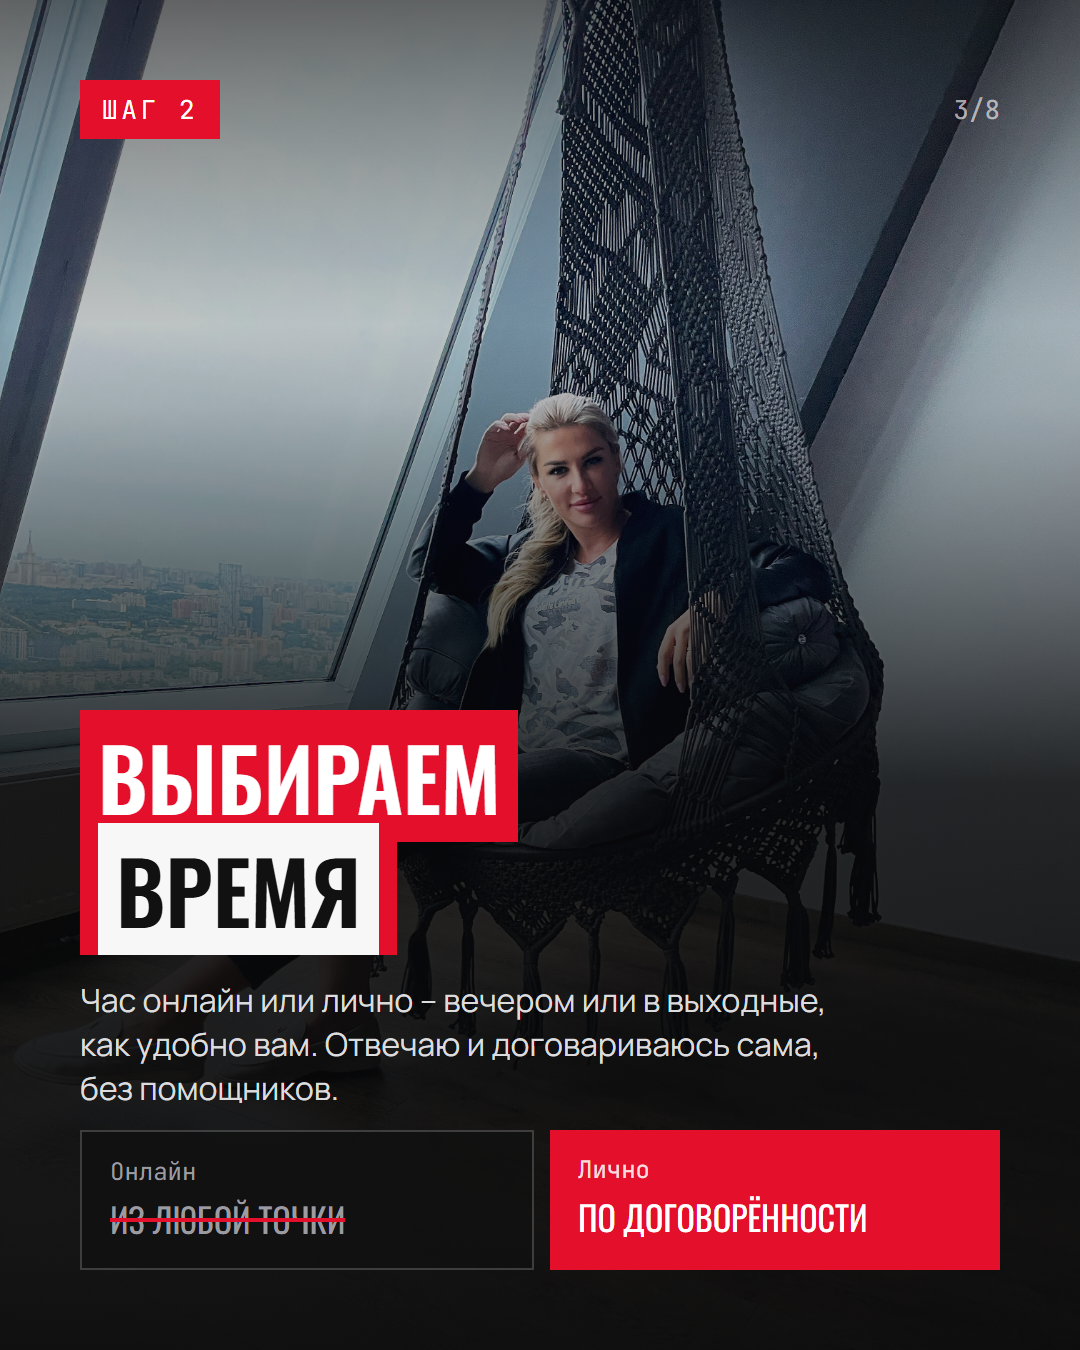
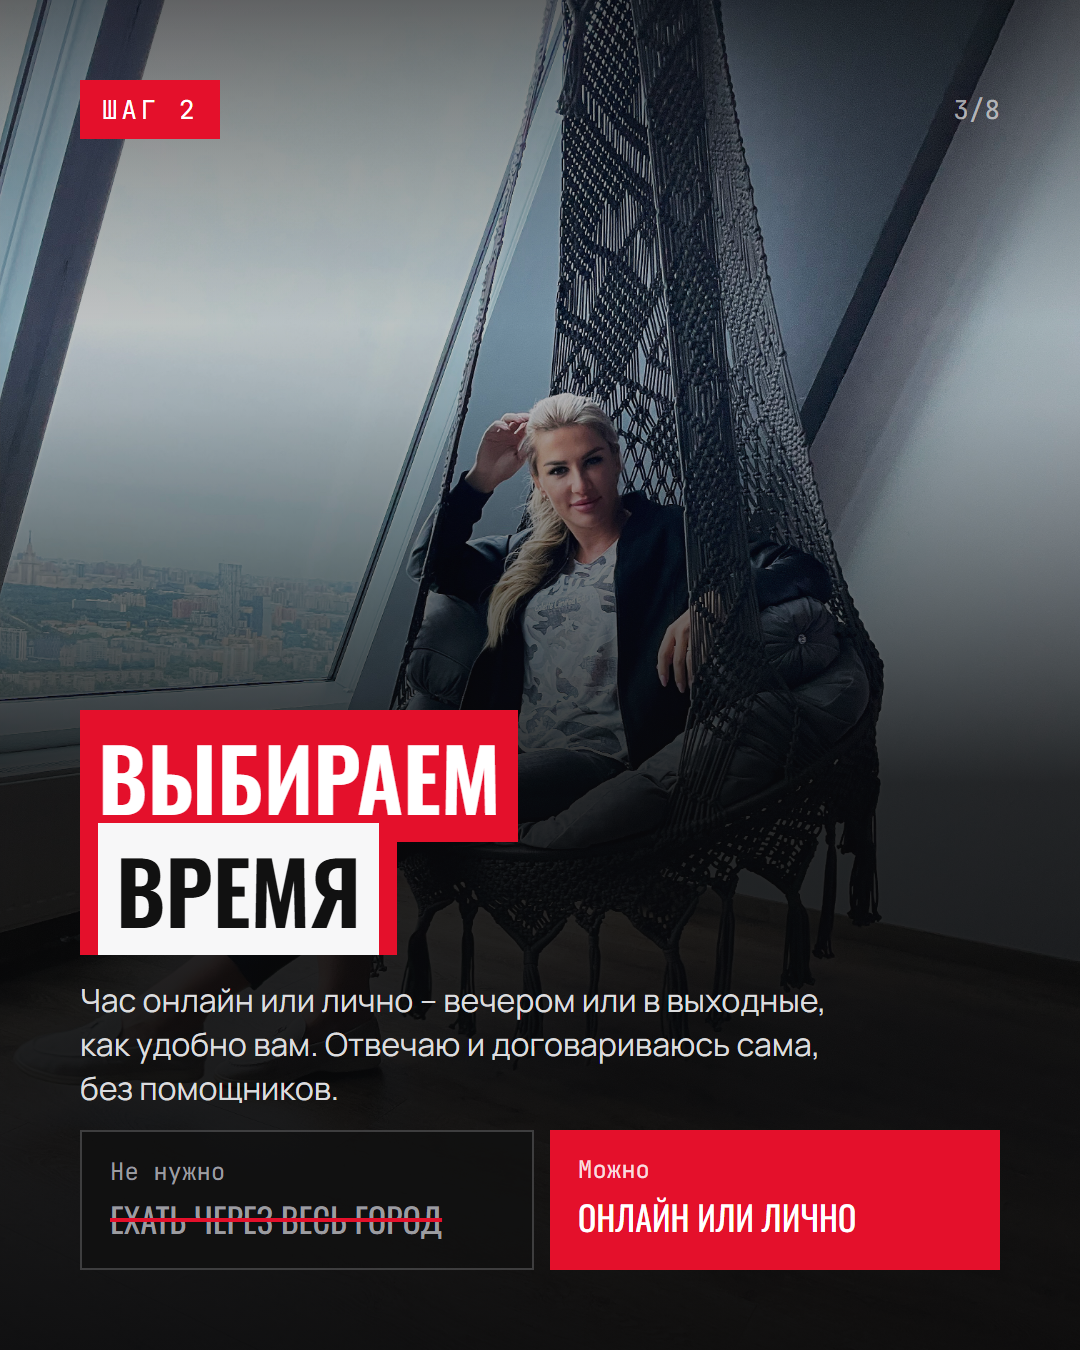
Карусели недели: зачёркнуто только «было / неправильно» (6 слайдов)

Changed region(s): [[0.0917, 0.84, 0.4278, 0.9333], [0.5194, 0.84, 0.7944, 0.9333]]

diff --git a/docs/karuseli_nedeli/make_specs.py b/docs/karuseli_nedeli/make_specs.py
@@ -30,7 +30,7 @@ K = {}
 K['k0_razbor'] = [
     cover('photo_2026-10-20_13-09-49.jpg', 'Личная консультация', 'Как проходит\n*разбор*', '1 час, 3 шага и ясный следующий шаг – без готовых рецептов'),
     P('IMG_3936.JPG', 'Шаг 1', 'Пишете мне\n*«РАЗБОР»*', 'В личные сообщения. Коротко: что происходит и что болит. Хватит пары фраз – дальше разберёмся вместе.', ('Не нужно', 'готовить речь'), ('Достаточно', 'пары фраз')),
-    P('IMG_7136.JPG', 'Шаг 2', 'Выбираем\n*время*', 'Час онлайн или лично – вечером или в выходные, как удобно вам. Отвечаю и договариваюсь сама, без помощников.', ('Онлайн', 'из любой точки'), ('Лично', 'по договорённости')),
+    P('IMG_7136.JPG', 'Шаг 2', 'Выбираем\n*время*', 'Час онлайн или лично – вечером или в выходные, как удобно вам. Отвечаю и договариваюсь сама, без помощников.', ('Не нужно', 'ехать через весь город'), ('Можно', 'онлайн или лично')),
     P('IMG_9365.HEIC', 'Шаг 3', 'Час – честно\n*и по делу*', 'Без готовых рецептов и без «просто полюбите себя». Смотрим на вашу ситуацию со стороны – такой, какая она есть.', ('Не будет', 'шаблонов'), ('Будет', 'правда'), '50% 25%'),
     {'role': 'list', 'kicker': 'С чем можно прийти', 'title': 'Ваш запрос', 'items': ['Уйти или сохранить отношения', 'Сильная, но одна', 'Потолок в найме', 'Найм или своё дело', 'Всё есть, а кажется мало'], 'note': 'Не знаете, как сформулировать? Это тоже запрос'},
     P('IMG_9288.HEIC', 'Результат', 'Уходите\n*с ясной картиной*', 'Понимаете, что на самом деле происходит, и знаете свой следующий шаг. Не «когда-нибудь», а конкретный.', ('До', 'хожу по кругу'), ('После', 'вижу свой шаг'), '50% 30%'),
@@ -44,17 +44,17 @@ K['k1_gasite'] = [
     P('IMG_7251.JPG', 'Признак 3', 'Оправдываетесь\n*за успех*', '«Мне просто повезло», «да это ерунда». Вам неловко быть сильной рядом с ним.', ('Говорите', 'повезло'), ('Правда', 'я заработала')),
     P('IMG_9699.JPG', 'Признак 4', '«Девочка-девочка»\n*по курсам*', 'Учитесь быть мягче, слабее, удобнее – не потому что хочется, а чтобы он не ушёл.', ('Цель', 'стать удобной'), ('Итог', 'потерять себя'), '50% 15%', 0.85),
     P('IMG_7136.JPG', 'Признак 5', 'Проседают здоровье\n*и самооценка*', 'Постоянное напряжение не проходит бесследно. Усталость, бессонница и мысль «со мной что-то не так».', ('Снаружи', 'всё хорошо'), ('Внутри', 'нет сил'), '50% 20%', 0.85),
-    P('IMG_2819.JPG', 'Признак 6', 'Он ревнует\n*к вашему статусу*', 'К деньгам, к людям вокруг, к каждому рабочему звонку. И вы начинаете извиняться за свою жизнь.', ('Он', 'ревнует'), ('Вы', 'извиняетесь'), '45% 20%'),
+    P('IMG_2819.JPG', 'Признак 6', 'Он ревнует\n*к вашему статусу*', 'К деньгам, к людям вокруг, к каждому рабочему звонку. И вы начинаете извиняться за свою жизнь.', ('Он', 'ты много работаешь'), ('На деле', 'ревность к статусу'), '45% 20%'),
     P('photo_2026-10-20_13-09-53.jpg', 'Главное', 'Гасишь себя –\n*теряешь себя целиком*', 'Мужчина, который рядом с вами растёт, не попросит вас стать меньше. Сила и женственность не воюют – они договариваются.', ('Шаблон', 'будь удобной'), ('Правда', 'будь собой'), '50% 25%', 0.85),
     cta('Узнали себя?', 'Напишите – разберём вашу ситуацию на личной консультации. Отвечу сама и назову цену.'),
 ]
 K['k2_ujti'] = [
     cover('IMG_9732.JPG', 'Отношения без шаблонов', 'Уйти\n*или сохранить?*', '5 вопросов, которые стоит задать себе, прежде чем рубить', '50% 20%'),
-    P('IMG_6332.JPG', 'Вопрос 1', 'Это кризис\n*или тупик?*', 'Кризис в отношениях был, есть и будет. Кризис проходят, если этого хотят двое. Тупик – когда хочет только один.', ('Кризис', 'можно пройти'), ('Тупик', 'некуда идти')),
+    P('IMG_6332.JPG', 'Вопрос 1', 'Это кризис\n*или тупик?*', 'Кризис в отношениях был, есть и будет. Кризис проходят, если этого хотят двое. Тупик – когда хочет только один.', ('Думаете', 'это конец'), ('Бывает', 'просто кризис')),
     P('IMG_2759.JPG', 'Вопрос 2', 'Что я\n*потеряю?*', 'Не только человека. Дом, общих друзей, привычную жизнь, иногда – деньги. Взвесьте честно, а не на эмоциях.', ('На эмоциях', 'уйду и всё'), ('Честно', 'считаю цену')),
     P('IMG_4512.JPG', 'Вопрос 3', 'Чего мне\n*на самом деле мало?*', 'Иногда «мне мало» – это про отношения. А иногда – про себя: про дело, про рост, про смысл.', ('Кажется', 'мало его'), ('Бывает', 'мало себя'), '50% 15%', 0.85),
-    P('IMG_8161.JPG', 'Вопрос 4', 'Есть ли\n*насилие?*', 'Если есть насилие или угрозы – не взвешивайте. Уходите сразу и просите помощи у близких и специалистов.', ('Здесь', 'без вопросов'), ('Только', 'уходить')),
-    P('IMG_7680.JPG', 'Вопрос 5', 'Есть ли у меня\n*почва под ногами?*', 'Свои деньги, профессия, жильё, близкие люди. Если почвы нет – сначала план отхода, потом решение.', ('Нет почвы', 'сначала план'), ('Есть почва', 'можно решать'), '50% 20%', 0.85),
+    P('IMG_8161.JPG', 'Вопрос 4', 'Есть ли\n*насилие?*', 'Если есть насилие или угрозы – не взвешивайте. Уходите сразу и просите помощи у близких и специалистов.', ('Не надо', 'терпеть и взвешивать'), ('Нужно', 'уходить сразу')),
+    P('IMG_7680.JPG', 'Вопрос 5', 'Есть ли у меня\n*почва под ногами?*', 'Свои деньги, профессия, жильё, близкие люди. Если почвы нет – сначала план отхода, потом решение.', ('Ошибка', 'уйти в никуда'), ('Верно', 'сначала план'), '50% 20%', 0.85),
     P('photo_2026-10-20_13-09-59.jpg', 'Главное', 'Разрушить успеешь.\n*Построить заново – нет*', 'Решение в панике почти всегда хуже решения с холодной головой. Сначала разберитесь – потом решайте.', ('В панике', 'рубить'), ('С ясной головой', 'решать'), '50% 18%', 0.8),
     cta('Не знаете, что выбрать?', 'Напишите – за час разберём вашу ситуацию без паники и готовых рецептов. Отвечу сама и назову цену.'),
 ]
@@ -63,7 +63,7 @@ K['k3_pravdy'] = [
     P('IMG_4086.PNG', 'Правда 1', 'Зачем ты\n*на этом месте?*', 'Однажды знакомая спросила меня: «Зачем ты на этом месте? Ты можешь больше». Я задумалась – и всё поменяла. Теперь спрашиваю вас.', ('Привычно', 'и так сойдёт'), ('Честно', 'я могу больше'), '50% 25%'),
     P('IMG_7753.JPG', 'Правда 2', 'Связи работают,\n*пока ты решаешь*', 'Пока у вас есть статус и ресурс – телефон звонит. Уйдёте с должности – многие исчезнут. Опирайтесь на себя, а не на связи.', ('Опора', 'связи'), ('Надёжнее', 'я сама'), '50% 20%', 0.85),
     P('IMG_0873.JPG', 'Правда 3', 'Ты закрываешь\n*свою красоту*', '«Я же серьёзная», «некогда собой заниматься». Сила не обязана быть серой – и красота ей не мешает.', ('Прячу', 'себя'), ('Разрешаю', 'себе')),
-    P('IMG_3936.JPG', 'Правда 4', 'Гнуться можно,\n*прогибаться – нет*', 'Гибкость – это умение договариваться. Прогибаться – это предавать себя ради чужого удобства. Разница огромная.', ('Гибкость', 'договариваюсь'), ('Прогиб', 'предаю себя'), '50% 20%', 0.85),
+    P('IMG_3936.JPG', 'Правда 4', 'Гнуться можно,\n*прогибаться – нет*', 'Гибкость – это умение договариваться. Прогибаться – это предавать себя ради чужого удобства. Разница огромная.', ('Прогиб', 'предаю себя'), ('Гибкость', 'договариваюсь'), '50% 20%', 0.85),
     P('IMG_9699.JPG', 'Правда 5', 'Каждый занят собой.\n*Будь собой*', 'Кажется, что все смотрят и оценивают. На самом деле каждый занят собой. Так попробуйте хотя бы раз быть собой.', ('Боюсь', 'что подумают'), ('Пробую', 'быть собой'), '50% 15%', 0.85),
     P('IMG_9288.HEIC', 'Главное', 'Правду не всегда\n*готовы услышать*', 'Но меняться помогает только она. Мягкие слова успокаивают, а честные – двигают.', ('Успокаивает', 'удобное'), ('Меняет', 'правда'), '50% 30%'),
     cta('Хотите честно?', 'Напишите – разберём вашу ситуацию прямо и по делу. Отвечу сама и назову цену.'),
